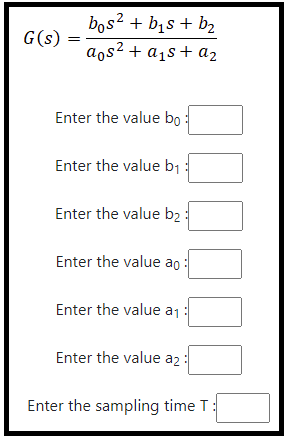
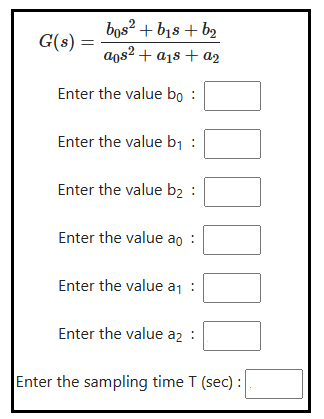
comit 10

Changed region(s): [[0.0, 0.0, 1.0, 1.0]]

diff --git a/experiment/simulation/index.html b/experiment/simulation/index.html
@@ -162,7 +162,7 @@
             Enter the value a<sub>2</sub>&nbsp; : &nbsp;<input type="number" id="a_2" min="1" value="2" max="1000" step="1" style="position:absolute;width:25%" ><br/></br> 	
 			<!--Enter the desired sampling time :    <input type="number" id="Ts" min="0.01" value="0.1" max="10" step="0.01" style="position:absolute;width:20%"readonly=readonly><br/></br>-->
 									
-			Enter the    sampling time T &nbsp;:&nbsp;    <input type="number" onchange="inputChange()" id="Ts" min="0.01" value="0.1" max="0.5" step="0.01" style="position:absolute;width:25%"><br/></br>				
+			Enter the    sampling time T (sec)&nbsp;:&nbsp;    <input type="number" onchange="inputChange()" id="Ts" min="0.01" value="0.1" max="0.5" step="0.01" style="position:absolute;width:25%"><br/></br>				
 			
 			<button class="btn btn-success" id ="run" onclick="system()">G(s)</button>
 			
